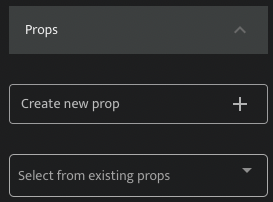
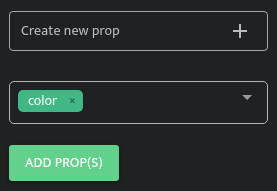
Update tutorial sections + GetStarted.vue to reflect new and replaced features for OverVue 10.0

diff --git a/src/components/right-sidebar/tutorial/NewVersionInfo.vue b/src/components/right-sidebar/tutorial/NewVersionInfo.vue
@@ -1,54 +1,61 @@
 <template>
   <section id="newFeatures">
-    <h6 class="infoHeading">What's New in OverVue?</h6>
+    <h6 class="infoHeading">What's New in OverVue 10.0?</h6>
     <p class="info-sub-heading">
-      Interactive 
+      Interactive Tree View
     </p>
     <p class="infoContent">
-      Level up your prototyping with snap to grid positioning and component
-      sizing that is exported as CSS grid styling in exported SFC's. Click on
-      these buttons below to access this feature!
+      Drag and drop tree nodes to change the component structure!
+      Changes made in the tree view will be reflected in the exported code, 
+      as can be seen from the Code Snippet.
     </p>
-    <img src="../../../assets/snaptogrid.jpg" class="tut-image" />
+    <img
+      alt="Interactive Tree View"
+      src="../../../assets/interactive-tree.png"
+      class="tut-screenshot"
+    />
     <p class="info-sub-heading">
-      Augmented Component Creation with Element+ Component Library
+      Updated HTML Elements Section
     </p>
     <p class="infoContent">
-      Take advantage of the popular Vue 3.0 compatible component library,
-      Element+. Manipulate these components in app, and rest easy knowing
-      exported code includes both the library elements, and their necessary
-      dependencies.
+      OverVue 10.0 comes with a new and revamped HTML elements section. You can now
+      change the order of and nest the HTML elements that are within your components by
+      interacting with the tree list structure. From this section, you can also delete and
+      edit the elements.
     </p>
-
+    <img
+      alt="HTML Elements Section"
+      src="../../../assets/nested-elements.png"
+      class="tut-screenshot"
+    />
     <p class="info-sub-heading">
-      Migrated Codebase to Composition API and Pinia State Management
+      Component Focus Modal
     </p>
-
     <p class="infoContent">
-      With the move of Vuex to maintanenace mode, Pinia has now become Vue's
-      official state management library. In addition, Composition API allows for
-      an efficient transition from Vuex to Pinia. Pinia provides SSR support,
-      Hot Module Replacement, and integration with the Vue Devtools.
+      If you're going to be spending a lot of time organizing HTML elements in any one 
+      component, you can use the component focus modal. The modal can be opened by
+      double-clicking on a component on the main tree view.
     </p>
-    <p class="info-sub-heading">Added Typescript Support</p>
+    <img
+      alt="Component Focus Modal"
+      src="../../../assets/modal.png"
+      class="tut-screenshot"
+    />
+    <p class="info-sub-heading">
+      Easily Add Accessible HTML Elements with the Vuetensils Component Library
+    </p>
     <p class="infoContent">
-      Typescript has been taking the world by storm, and aptly so. With the
-      added benefit of Pinia having strong type inference, every component and
-      piece of state has been typed to allow for a better developer experience
-      and scalability.
+      Quickly create accessible HTML elements by adding components from the Vuetensils
+      Component Library! These naked components are designed to have bare minimum styles, 
+      to avoid bloat while including accessibility. Learn more about Vuetensils in the 
+      <!-- <a class="link" href="https://vuetensils.com/Introduction.html">documentation</a>. -->
+      documentation: <span class="dead-link">https://vuetensils.com/Introduction.html</span>.
     </p>
-
-    <p class="info-sub-heading">Parent and Child Component Relationship</p>
-    <p class="infoContent">
-      Exported code now properly shows the relationship between parent and child
-      components. Child components are declared in Parent script and appear
-      correctly in templates.
-    </p>
-    <p class="info-sub-heading">HTML Element Nesting</p>
-    <p class="infoContent">
-      HTML elements now account for nesting in the exported code. Also the
-      ability to include inner text has been added to the HTML elements.
-    </p>
+    <img
+      alt="Vuetensils"
+      src="../../../assets/vuetensils.png"
+      class="tut-screenshot"
+    />
     <q-btn
       class="tut-btn"
       color="secondary"
@@ -64,7 +71,6 @@
   </section>
 </template>
 
-<!-- COMPOSITION API SYNTAX -->
 <script setup lang="ts">
 import { useStore } from "../../../store/main.js";
 
@@ -75,21 +81,6 @@ const toggleTutorial = () => store.toggleTutorial();
 const nextTab = () => emit("nextTab");
 </script>
 
-<!-- OLD OPTIONS API SYNTAX -->
-<!-- <script>
-import { mapActions } from 'vuex';
-
-export default {
-  emits: ['nextTab'],
-  methods: {
-    ...mapActions(["toggleTutorial"]),
-    nextTab() {
-      this.$emit('nextTab')
-    }
-  }
-}
-</script> -->
-
 <style scoped lang="scss">
 #newFeatures {
   display: flex;
@@ -97,6 +88,14 @@ export default {
   justify-content: center;
   align-items: center;
   margin: 10px;
+}
+
+.link {
+  color: $secondary;
+}
+
+.dead-link {
+  color: greenyellow;
 }
 
 .infoHeading {

diff --git a/src/components/right-sidebar/tutorial/AdvancedFunctions.vue b/src/components/right-sidebar/tutorial/AdvancedFunctions.vue
@@ -1,5 +1,4 @@
 <template>
-  <!--Typescript option, mock image?, nested HTML elements, import component/limitations -->
   <section id="advancedFunctions">
     <h6 class="tutorialHeading">Advanced Functionality</h6>
     <h class="tutorial-sub-heading">Importing an existing component</h>
@@ -10,11 +9,6 @@
       formats is not currently supported.
     </p>
     <h class="tutorial-sub-heading">Adding Props</h>
-    <img
-      alt="Props sub-menu"
-      src="../../../assets/props.png"
-      class="tut-screenshot"
-    />
     <p class="tutorialContent">
       To add props, select the component and click the Props sub-menu in the
       Update Component menu in the left sidebar. Enter the name of the prop you
@@ -24,7 +18,7 @@
     </p>
     <img
       alt="Add Props"
-      src="../../../assets/add-props.png"
+      src="../../../assets/props.png"
       class="tut-screenshot"
     />
     <h class="tutorial-sub-heading">Adding State or Actions</h>
@@ -41,21 +35,6 @@
     <img
       alt="Store Tab"
       src="../../../assets/state-actions.png"
-      class="tut-screenshot"
-    />
-    <h class="tutorial-sub-heading">Navigating HTML elements</h>
-    <p class="tutorialContent">
-      To nest HTML elements, select a component, click the double down arrow
-      icon on an HTML element (either in the HTML Elements sub-menu of the
-      Update Component menu in the left sidebar or the HTML Elements sub-menu of
-      the Component Details tab in the right sidebar). Click the icons to add
-      additional HTML elements. To navigate back up a layer, click the up arrow
-      icon. (Note: Certain types of HTML elements cannot be nested, these will
-      not have a double arrow icon.)
-    </p>
-    <img
-      alt="HTML Queue"
-      src="../../../assets/html-queue.png"
       class="tut-screenshot"
     />
     <h class="tutorial-sub-heading">TypeScript Mode</h>
@@ -86,17 +65,6 @@ const store = useStore();
 
 const toggleTutorial = () => store.toggleTutorial();
 </script>
-
-<!-- OLD OPTIONS API SYNTAX -->
-<!-- <script>
-import { mapActions } from "vuex";
-
-export default {
-  methods: {
-    ...mapActions(["toggleTutorial"]),
-  },
-};
-</script> -->
 
 <style lang="scss" scoped>
 #advancedFunctions {

diff --git a/src/components/right-sidebar/tutorial/BasicFunctions.vue b/src/components/right-sidebar/tutorial/BasicFunctions.vue
@@ -1,5 +1,4 @@
 <template>
-  <!--Basic functionality here, add component, copy/paste, undo/redo, add html, saving, loading, exporting-->
   <section id="basicFunctions">
     <h6 class="tutorialHeading">Getting Started in OverVue</h6>
     <p class="tutorialContent">
@@ -115,22 +114,6 @@
       src="../../../assets/routes.png"
       class="tut-screenshot"
     />
-    <!-- <h class="tutorial-sub-heading">Uploading mockups</h>
-    <p class="tutorialContent">You can upload a design mockup in the Routes tab of the right sidebar menu (one mockup
-      per route). Select the route in the Routes tab, open the ‘Upload Mockup’ sub-menu and click ‘Upload Mockup’. To
-      clear the image, click the ‘Clear Image’ button.
-    </p>
-    <img alt="Upload Mockup buttons" src="../../../assets/upload-mockups.png" class="tut-screenshot">
-    <h class="tutorial-sub-heading">Project Tree</h>
-    <p class="tutorialContent">You can find a visualization of your app hierarchy in the Project Tree tab of the right
-      sidebar. Routes are blue, components are green. You can also navigate to a component or route by clicking on it in
-      the project tree.
-    </p> -->
-    <!-- <img
-      alt="Project Tree"
-      src="../../../assets/project-tree.png"
-      class="tut-screenshot"
-    /> -->
     <h class="tutorial-sub-heading">Saving or Exporting Your Project</h>
     <p class="tutorialContent">
       When you are satisfied with your project, you can save it or export it
@@ -173,7 +156,6 @@
   </section>
 </template>
 
-<!-- COMPOSITION API SYNTAX -->
 <script setup lang="ts">
 import { useStore } from "../../../store/main.js";
 
@@ -183,21 +165,6 @@ const emit = defineEmits(["nextTab"]);
 const toggleTutorial = () => store.toggleTutorial();
 const nextTab = () => emit("nextTab");
 </script>
-
-<!-- OLD OPTIONS API SYNTAX -->
-<!-- <script>
-import { mapActions } from 'vuex';
-
-export default {
-  emits: ['nextTab'],
-  methods: {
-    ...mapActions(["toggleTutorial"]),
-    nextTab() {
-      this.$emit('nextTab')
-    }
-  }
-}
-</script> -->
 
 <style scoped lang="scss">
 #basicFunctions {

diff --git a/src/components/right-sidebar/tutorial/Landing.vue b/src/components/right-sidebar/tutorial/Landing.vue
@@ -1,5 +1,4 @@
 <template>
-  <!--Landing page-->
   <section id="welcomeTab">
     <h6 class="tutorialHeading">Welcome to</h6>
     <img
@@ -31,10 +30,8 @@
   </section>
 </template>
 
-<!-- COMPOSITION API SYNTAX -->
 <script setup lang="ts">
-// @ts-nocheck
-// No check for the shell
+
 import { useStore } from "../../../store/main.js";
 
 const { shell } = window;
@@ -46,24 +43,6 @@ const toggleTutorial = () => store.toggleTutorial();
 const nextTab = () => emit("nextTab");
 const openUrl = (url: string) => shell.openExternal(url, { activate: true });
 </script>
-
-<!-- OLD OPTIONS API SYNTAX -->
-<!-- <script>
-const { ipcRenderer, shell } = window;
-import { mapActions } from 'vuex';
-export default {
-  emits: ['nextTab', 'versionTab'],
-  methods: {
-    ...mapActions(["toggleTutorial"]),
-    nextTab() {
-      this.$emit('nextTab')
-    },
-    openUrl(url) {
-      shell.openExternal(url, { activate: true });
-    }
-  }
-}
-</script> -->
 
 <style lang="scss" scoped>
 #logo {

diff --git a/src/components/right-sidebar/GetStarted.vue b/src/components/right-sidebar/GetStarted.vue
@@ -48,29 +48,6 @@ import { ref } from "vue";
 const tutorialPage = ref("landing");
 </script>
 
-<!-- OLD OPTIONS API SYNTAX -->
-<!-- <script lang="ts">
-import BasicFunctions from './tutorial/BasicFunctions.vue'
-import AdvancedFunctions from './tutorial/AdvancedFunctions.vue'
-import Landing from './tutorial/Landing.vue'
-import NewVersionInfo from './tutorial/NewVersionInfo.vue'
-import { defineComponent } from "vue";
-
-export default defineComponent({
-  components: {
-    BasicFunctions,
-    AdvancedFunctions,
-    Landing,
-    NewVersionInfo
-  },
-  data() {
-    return {
-      tutorialPage: 'landing' as string,
-    }
-  }
-});
-</script> -->
-
 <style lang="scss" scoped>
 .q-btn {
   font-size: 8px;
